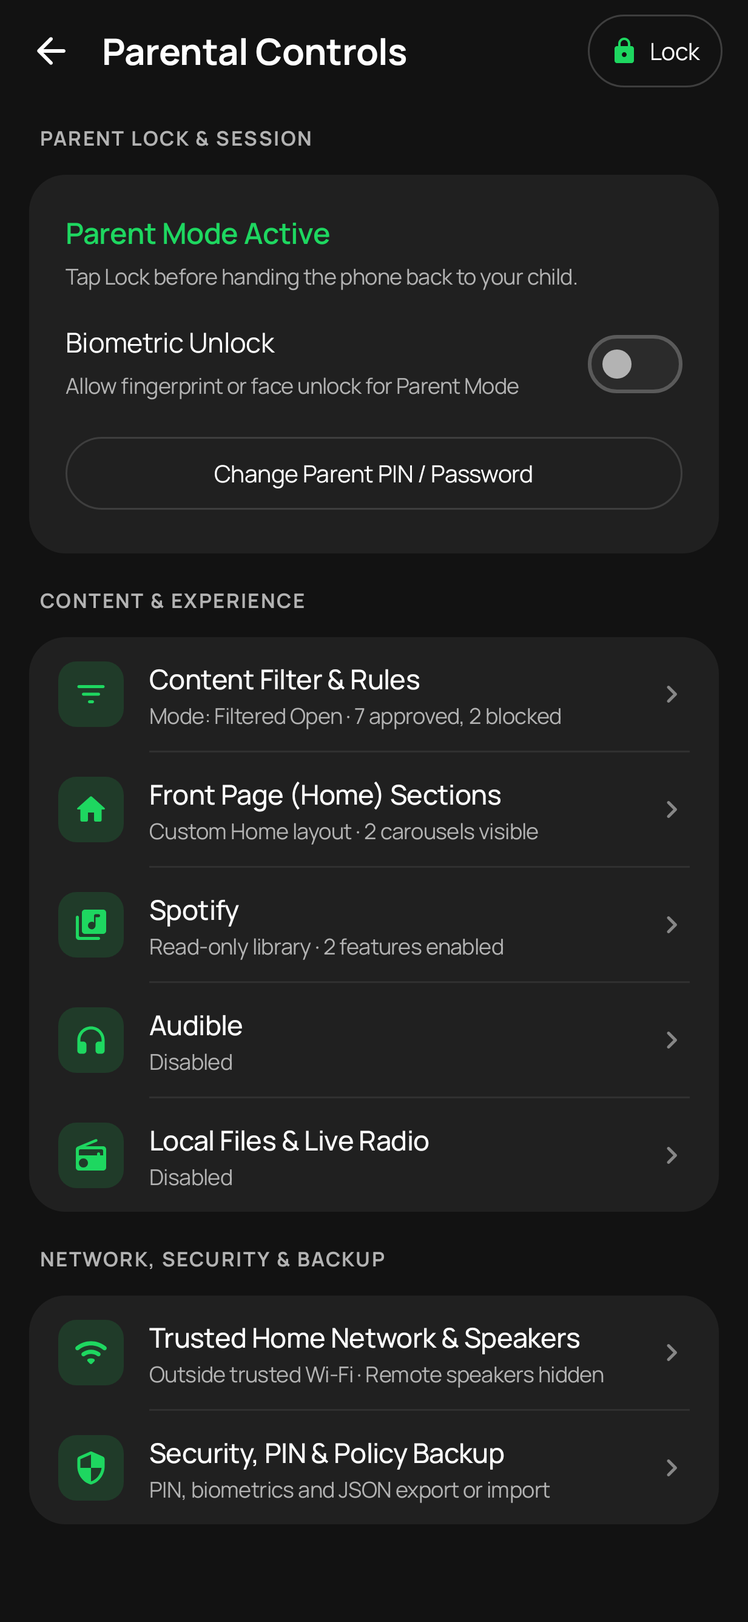
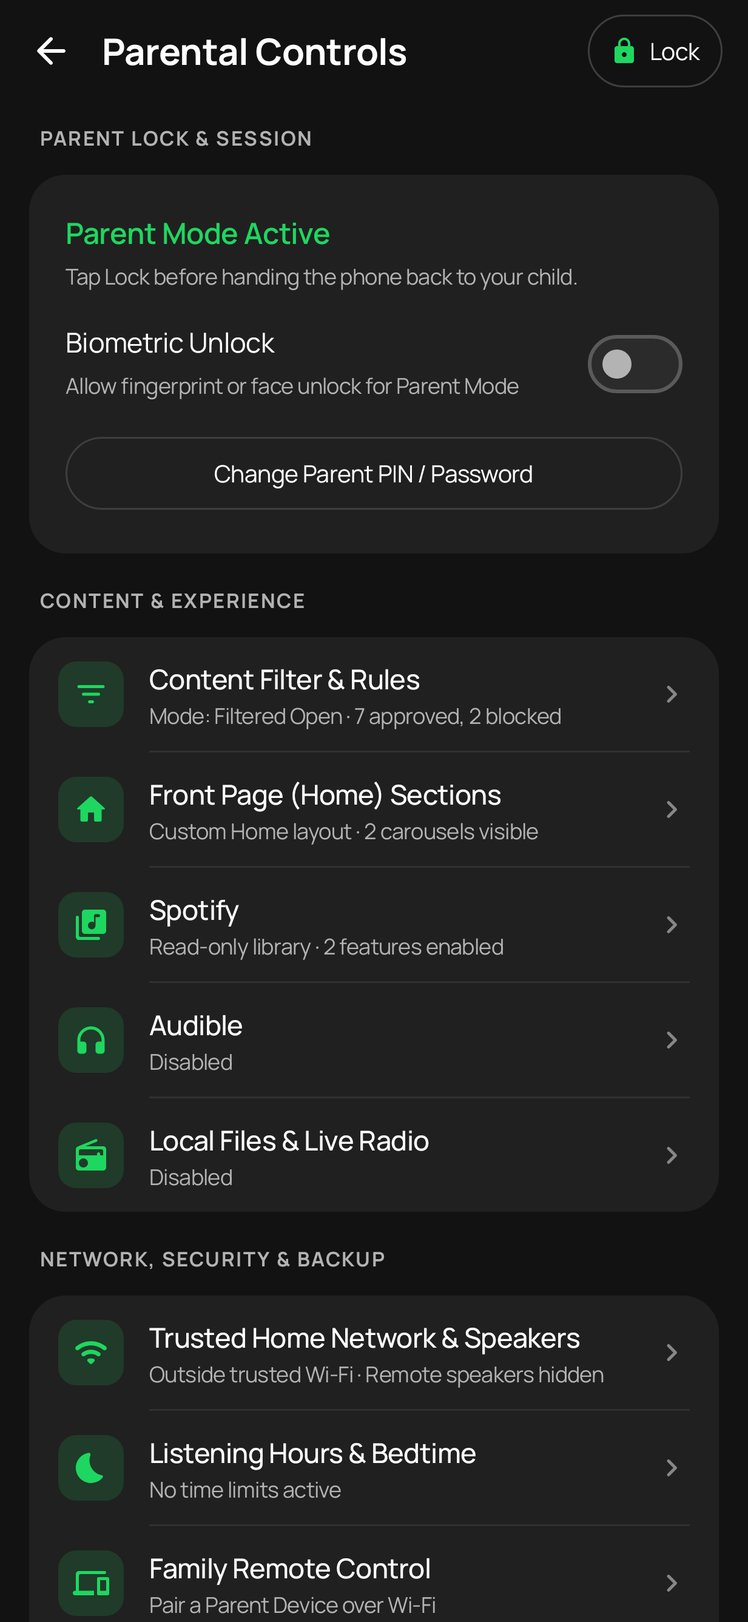
docs: regenerate screenshots and update README for Parent Remote and listening schedules

Changed region(s): [[0.2157, 0.8694, 0.7088, 0.9315], [0.0616, 0.9005, 0.5856, 1.0]]

diff --git a/base/app/src/test/java/io/github/thake/soundnest/core/ui/DocScreenshotTest.kt b/base/app/src/test/java/io/github/thake/soundnest/core/ui/DocScreenshotTest.kt
@@ -352,6 +352,11 @@ class DocScreenshotTest {
         io.github.thake.soundnest.feature.spokenword.audible.data.AudibleProgressStore.resetMemoryForTests()
         ParentSecurityManager.dismissPrompt()
         ParentSecurityManager.resetForTests(app)
+        io.github.thake.soundnest.feature.parental.remote.settings.RemotePolicySession.resetForTests(app)
+        io.github.thake.soundnest.feature.parental.remote.net.ChildRemoteServer.resetForTests()
+        io.github.thake.soundnest.feature.parental.remote.settings.PairedDevicesStore.resetForTests(app)
+        io.github.thake.soundnest.feature.parental.remote.settings.DeviceRoleStore.resetForTests(app)
+        io.github.thake.soundnest.feature.parental.schedule.ParentalScheduleController.resetForTests()
         ParentalPolicyStore.resetForTests(app)
         TrustedNetworkGate.resetForTests(app)
         setLibraryGridView(app, false)
@@ -482,6 +487,11 @@ class DocScreenshotTest {
         io.github.thake.soundnest.feature.spokenword.audible.data.AudibleProgressStore.clearAll(app)
         io.github.thake.soundnest.feature.spokenword.audible.data.AudibleProgressStore.resetMemoryForTests()
         ShadowLooper.idleMainLooper()
+        io.github.thake.soundnest.feature.parental.remote.settings.RemotePolicySession.resetForTests(app)
+        io.github.thake.soundnest.feature.parental.remote.net.ChildRemoteServer.resetForTests()
+        io.github.thake.soundnest.feature.parental.remote.settings.PairedDevicesStore.resetForTests(app)
+        io.github.thake.soundnest.feature.parental.remote.settings.DeviceRoleStore.resetForTests(app)
+        io.github.thake.soundnest.feature.parental.schedule.ParentalScheduleController.resetForTests()
         ParentSecurityManager.resetForTests(app)
         ParentSecurityManager.setupInitialPin(app, "246810")
         ParentSecurityManager.lockNow(app)
@@ -644,6 +654,117 @@ class DocScreenshotTest {
             seedFeedAndLibraryCache()
         }
 
+        var remoteLoopbackChild: io.github.thake.soundnest.feature.parental.remote.settings.PairedChildRecord? = null
+        val remoteHubPrep: (Application) -> Unit = { app ->
+            parentAdminPrep(app)
+            io.github.thake.soundnest.feature.parental.remote.settings.DeviceRoleStore.setDeviceName(app, "Emma's Tablet")
+            io.github.thake.soundnest.feature.parental.remote.net.ChildRemoteServer.enableMdns = false
+            val childPolicy = ParentalPolicyStore.current(app)
+            io.github.thake.soundnest.feature.parental.remote.net.ChildRemoteServer.delegate =
+                object : io.github.thake.soundnest.feature.parental.remote.net.ChildControlDelegate {
+                    override fun getStatus(context: android.content.Context) =
+                        io.github.thake.soundnest.feature.parental.remote.net.ChildStatusSnapshot(
+                            childId = io.github.thake.soundnest.feature.parental.remote.settings.DeviceRoleStore.deviceId(context),
+                            deviceName = "Emma's Tablet",
+                            title = "Path of the Wind",
+                            artist = "Joe Hisaishi",
+                            album = "My Neighbor Totoro",
+                            coverUrl = covers["ghibli"].orEmpty(),
+                            isPlaying = true,
+                            volumePercent = 45,
+                            policyRevision = 3L,
+                            filterMode = childPolicy.filterMode,
+                        )
+                    override fun executePlayback(
+                        context: android.content.Context,
+                        action: io.github.thake.soundnest.feature.parental.remote.net.RemoteRequest.PlaybackAction,
+                    ) = getStatus(context)
+                    override fun getPolicy(context: android.content.Context) =
+                        io.github.thake.soundnest.feature.parental.remote.net.RemotePolicyBundle(
+                            childId = io.github.thake.soundnest.feature.parental.remote.settings.DeviceRoleStore.deviceId(context),
+                            deviceName = "Emma's Tablet",
+                            policy = childPolicy,
+                            ruleLabels = RuleLabelStore.all(context),
+                            policyRevision = 3L,
+                        )
+                    override fun updatePolicy(
+                        context: android.content.Context,
+                        policy: ParentalPolicy,
+                        ruleLabels: Map<String, io.github.thake.soundnest.feature.parental.settings.RuleLabel>,
+                    ) = 4L to getStatus(context)
+                    override fun renameDevice(context: android.content.Context, newName: String) = getStatus(context)
+                    override fun searchCatalog(context: android.content.Context, query: String) = listOf(
+                        io.github.thake.soundnest.feature.parental.remote.net.RemoteCatalogItem(
+                            "track", "t_ghibli", "Path of the Wind", "Joe Hisaishi", covers["ghibli"].orEmpty(),
+                        ),
+                        io.github.thake.soundnest.feature.parental.remote.net.RemoteCatalogItem(
+                            "playlist", "ghibli", "Studio Ghibli Piano", "Parent Picks", covers["ghibli"].orEmpty(),
+                        ),
+                    )
+                    override fun getChildCatalog(context: android.content.Context) =
+                        io.github.thake.soundnest.feature.parental.remote.net.RemoteResponse.ChildCatalog(
+                            libraryItems = listOf(
+                                io.github.thake.soundnest.feature.parental.remote.net.RemoteCatalogItem(
+                                    "playlist", "ghibli", "Studio Ghibli Piano", "Parent Picks", covers["ghibli"].orEmpty(),
+                                ),
+                                io.github.thake.soundnest.feature.parental.remote.net.RemoteCatalogItem(
+                                    "album", "planets", "The Planets Suite", "Gustav Holst", covers["planets"].orEmpty(),
+                                ),
+                                io.github.thake.soundnest.feature.parental.remote.net.RemoteCatalogItem(
+                                    "album", "bedtime", "Calm Bedtime Classics", "Lullaby Orchestra", covers["bedtime"].orEmpty(),
+                                ),
+                                io.github.thake.soundnest.feature.parental.remote.net.RemoteCatalogItem(
+                                    "track", "explicit1", "Late Night Explicit Remix", "Club DJ", covers["starwars"].orEmpty(),
+                                ),
+                            ),
+                            audibleBooks = listOf(
+                                io.github.thake.soundnest.feature.parental.remote.net.RemoteCatalogItem(
+                                    "audible", "B08G9PRS1K", "Project Hail Mary", "Andy Weir", covers["planets"].orEmpty(),
+                                ),
+                                io.github.thake.soundnest.feature.parental.remote.net.RemoteCatalogItem(
+                                    "audible", "B004V0725Y", "Momo", "Michael Ende", covers["bedtime"].orEmpty(),
+                                ),
+                            ),
+                            audibleConnected = true,
+                        )
+                }
+            val session = io.github.thake.soundnest.feature.parental.remote.net.ChildRemoteServer
+                .startPairingSession(app, java.net.InetAddress.getLoopbackAddress()).getOrThrow()
+            val paired = kotlinx.coroutines.runBlocking {
+                io.github.thake.soundnest.feature.parental.remote.net.ParentRemoteClient
+                    .pairWithChild(app, "127.0.0.1", session.port, session.code).getOrThrow()
+            }
+            remoteLoopbackChild = paired
+            io.github.thake.soundnest.feature.parental.remote.settings.PairedDevicesStore.upsertPairedChild(
+                context = app,
+                childId = "child-leo-offline",
+                displayName = "Leo's Phone",
+                host = "127.0.0.1",
+                port = 1,
+                rawSecret = io.github.thake.soundnest.feature.parental.remote.crypto.RemoteCrypto.randomBytes(32),
+            )
+            io.github.thake.soundnest.feature.parental.remote.settings.DeviceRoleStore.setRole(
+                app,
+                io.github.thake.soundnest.feature.parental.remote.settings.DeviceRole.PARENT_CONTROLLER,
+            )
+        }
+        val schedulePrep: (Application) -> Unit = { app ->
+            parentAdminPrep(app)
+            ParentalPolicyStore.update(app) {
+                it.copy(
+                    schedule = io.github.thake.soundnest.feature.parental.schedule.ScheduleParentalPolicy(
+                        usageHoursEnabled = true,
+                        weekdayWindow = io.github.thake.soundnest.feature.parental.schedule.DailyTimeWindow(7 * 60, 20 * 60),
+                        weekendWindow = io.github.thake.soundnest.feature.parental.schedule.DailyTimeWindow(8 * 60, 21 * 60),
+                        bedtimeInactivityEnabled = true,
+                        bedtimeStartMinutes = 19 * 60 + 30,
+                        bedtimeEndMinutes = 6 * 60,
+                        inactivityTimeoutMinutes = 20,
+                    ),
+                )
+            }
+        }
+
         // ── 1. Hero Screenshots (README.md top-level files) ──
         add("Hero Overview", "immersive-home.png", "Immersive Home (Filtered Open)", "Curated shelves, Parent Picks, and floating glass mini-player.", Look.IMMERSIVE, filteredOpenPrep) {
             ImmersiveShell(Routes.Home.route, capped = false) { nav -> ImmersiveHomeScreen(nav) }
@@ -666,6 +787,25 @@ class DocScreenshotTest {
             SongPlayer.setSleepTimer(30)
         }) {
             ImmersivePlayer(state = immersivePlayerState(), actions = ImmersivePlayerActions(), navController = rememberNavController())
+        }
+        add("Hero Overview", "parent-device-hub.png", "Parent Device Hub (Wi-Fi Remote)", "Dedicated Parent Device mode managing multiple paired children over encrypted LAN with live playback, volume, Sleep Timer, Pick / Block, and Pause All Kids.", Look.CLASSIC, remoteHubPrep) {
+            io.github.thake.soundnest.feature.parental.remote.ui.ParentHubScreen(isDedicatedMode = true, onBack = {}, onSwitchToStandardMode = {})
+        }
+        add("Hero Overview", "remote-catalog-browser.png", "Remote Pick / Block Browser", "Browse and search a child's Spotify catalog, library, and Audible books from the Parent Device with 1-tap Pick / Block syncing live.", Look.CLASSIC, prepare = { app ->
+            remoteHubPrep(app)
+            val target = requireNotNull(remoteLoopbackChild)
+            kotlinx.coroutines.runBlocking {
+                io.github.thake.soundnest.feature.parental.remote.settings.RemotePolicySession.attach(app, target)
+            }
+        }) {
+            io.github.thake.soundnest.feature.parental.remote.ui.RemoteCatalogBrowserScreen(
+                child = requireNotNull(remoteLoopbackChild),
+                onBack = {},
+                initialTab = 1,
+            )
+        }
+        add("Hero Overview", "listening-hours-schedule.png", "Listening Hours & Bedtime Sleep", "Weekday/weekend allowed listening windows and automatic bedtime inactivity fade-out sleep timer.", Look.CLASSIC, schedulePrep) {
+            ParentSettingsScreen(navController = rememberNavController(), initialPage = ParentSettingsPage.ScheduleAndSleep)
         }
 
         // ── 2. Onboarding & Session States ──
@@ -845,6 +985,57 @@ class DocScreenshotTest {
                     onDismiss = {},
                 )
             }
+        }
+        add("Parental Controls & Security", "parental/18-dashboard-schedule.png", "Dashboard: Listening Hours & Bedtime Sleep", "Weekday/weekend listening hour windows and automatic bedtime inactivity fade-out sleep timer.", Look.CLASSIC, schedulePrep) {
+            ParentSettingsScreen(navController = rememberNavController(), initialPage = ParentSettingsPage.ScheduleAndSleep)
+        }
+        add("Parental Controls & Security", "parental/19-usage-hours-lock.png", "Allowed Listening Hours Lock Overlay", "Calm full-screen lock shown outside allowed listening hours with next allowed start time and Parent Unlock / Extension action.", Look.CLASSIC, prepare = { app ->
+            ParentalPolicyStore.update(app) {
+                it.copy(
+                    schedule = io.github.thake.soundnest.feature.parental.schedule.ScheduleParentalPolicy(
+                        usageHoursEnabled = true,
+                        weekdayWindow = io.github.thake.soundnest.feature.parental.schedule.DailyTimeWindow(7 * 60, 20 * 60),
+                        weekendWindow = io.github.thake.soundnest.feature.parental.schedule.DailyTimeWindow(8 * 60, 21 * 60),
+                    ),
+                )
+            }
+            io.github.thake.soundnest.feature.parental.schedule.ParentalScheduleController.nowZonedProvider = {
+                java.time.ZonedDateTime.of(2026, 11, 20, 20, 30, 0, 0, java.time.ZoneId.of("UTC"))
+            }
+            io.github.thake.soundnest.feature.parental.schedule.ParentalScheduleController.evaluateNow(app)
+        }) {
+            io.github.thake.soundnest.feature.parental.schedule.ui.UsageHoursLockOverlay()
+        }
+        add("Parental Controls & Security", "parental/20-family-remote-pairing.png", "Family Remote Control & Pairing", "Child device pairing screen with paired parents list, QR code, and 6-digit one-time pairing code.", Look.CLASSIC, prepare = { app ->
+            parentAdminPrep(app)
+            io.github.thake.soundnest.feature.parental.remote.settings.DeviceRoleStore.setDeviceName(app, "Emma's Tablet")
+            io.github.thake.soundnest.feature.parental.remote.net.ChildRemoteServer.enableMdns = false
+            io.github.thake.soundnest.feature.parental.remote.settings.PairedDevicesStore.upsertPairedParent(
+                context = app,
+                parentId = "parent-mom",
+                parentName = "Mom's Phone",
+                rawSecret = io.github.thake.soundnest.feature.parental.remote.crypto.RemoteCrypto.randomBytes(32),
+            )
+            io.github.thake.soundnest.feature.parental.remote.net.ChildRemoteServer
+                .startPairingSession(app, java.net.InetAddress.getLoopbackAddress())
+        }) {
+            ParentSettingsScreen(navController = rememberNavController(), initialPage = ParentSettingsPage.FamilyRemote)
+        }
+        add("Parental Controls & Security", "parental/21-parent-device-hub.png", "Parent Device Mode: Multi-Child Hub", "Dedicated Parent Device hub controlling multiple paired children over encrypted home Wi-Fi.", Look.CLASSIC, remoteHubPrep) {
+            io.github.thake.soundnest.feature.parental.remote.ui.ParentHubScreen(isDedicatedMode = true, onBack = {}, onSwitchToStandardMode = {})
+        }
+        add("Parental Controls & Security", "parental/22-remote-catalog-browser.png", "Parent Device Mode: Remote Pick / Block", "Remote Spotify Search, Child Library, and Audible catalog browser with instant Pick / Block syncing.", Look.CLASSIC, prepare = { app ->
+            remoteHubPrep(app)
+            val target = requireNotNull(remoteLoopbackChild)
+            kotlinx.coroutines.runBlocking {
+                io.github.thake.soundnest.feature.parental.remote.settings.RemotePolicySession.attach(app, target)
+            }
+        }) {
+            io.github.thake.soundnest.feature.parental.remote.ui.RemoteCatalogBrowserScreen(
+                child = requireNotNull(remoteLoopbackChild),
+                onBack = {},
+                initialTab = 1,
+            )
         }
 
         // ── 4. Classic Look — Complete Screen & Settings Catalog ──

diff --git a/base/app/src/main/java/io/github/thake/soundnest/feature/parental/remote/ui/RemoteCatalogBrowserScreen.kt b/base/app/src/main/java/io/github/thake/soundnest/feature/parental/remote/ui/RemoteCatalogBrowserScreen.kt
@@ -81,12 +81,13 @@ import kotlinx.coroutines.delay
 fun RemoteCatalogBrowserScreen(
     child: PairedChildRecord,
     onBack: () -> Unit,
+    initialTab: Int = 0,
 ) {
     val context = LocalContext.current
     val policy by ParentalPolicyStore.policyFlow.collectAsState()
     val syncState by RemotePolicySession.syncStateFlow.collectAsState()
 
-    var selectedTab by remember { mutableIntStateOf(0) } // 0 = Search, 1 = Library, 2 = Audible
+    var selectedTab by remember { mutableIntStateOf(initialTab) } // 0 = Search, 1 = Library, 2 = Audible
     var query by remember { mutableStateOf("") }
     var searching by remember { mutableStateOf(false) }
     var searchResults by remember { mutableStateOf<List<RemoteCatalogItem>>(emptyList()) }

diff --git a/README.md b/README.md
@@ -7,6 +7,7 @@
     <img src="https://img.shields.io/badge/Android-10%2B%20(API%2029%2B)-38BDF8?style=flat-square" alt="Android 10+" />
     <img src="https://img.shields.io/badge/Spotify-Free%20%26%20Premium-1DB954?style=flat-square" alt="Spotify Free & Premium" />
     <img src="https://img.shields.io/badge/Audible-Parent--Curated%20Audiobooks-F59E0B?style=flat-square" alt="Audible Parent-Curated Audiobooks" />
+    <img src="https://img.shields.io/badge/Parent%20Remote-Multi--Child%20Wi--Fi-8B5CF6?style=flat-square" alt="Parent Remote Multi-Child Wi-Fi" />
   </p>
 </div>
 
@@ -19,7 +20,7 @@ SoundNest is a focused **GPL-3.0** derivative of [Orpheon (formerly Myspoti)](ht
 - **Zero ad-blocking or DRM circumvention** — no ad-muting, no WebView script injection to suppress ads, no SponsorBlock, no audio downloading/ripping (Audible streams in memory via standard Android `MediaDrm` Widevine with zero `.aax`/`.aaxc` decryption), and no Spotify attestation workarounds.
 - **Zero third-party extensions or scrapers** — no extension runtime, no YouTube Music / external catalog scrapers, and no in-app self-updater bypassing device parental controls.
 - **Zero unmoderated social or store surfaces** — Spotify Friend Activity, unmoderated user profiles, Music Videos, Canvas video loops, artist merch/concert prompts, and Audible Store / Plus catalog browsing are completely absent.
-- **Fail-closed parental guardrails** — mandatory Parent PIN or password (4+ characters) on first launch, hybrid Blocklist / Strict Allowlist filtering, explicit per-book Audible Parent Picker, customizable Home shelves, Trusted Home Wi-Fi speaker boundaries, and a built-in Sleep Timer.
+- **Fail-closed parental guardrails** — mandatory Parent PIN or password (4+ characters) on first launch, hybrid Blocklist / Strict Allowlist filtering (with whole-word keywords & case-insensitive regex patterns), explicit per-book Audible Parent Picker, customizable Home shelves, Trusted Home Wi-Fi speaker boundaries, **Allowed Listening Hours**, an automatic **Bedtime Inactivity Sleep Timer**, and a dedicated **Parent Device Wi-Fi Remote** for managing multiple children's devices from your own phone.
 
 ---
 
@@ -33,7 +34,11 @@ SoundNest is a focused **GPL-3.0** derivative of [Orpheon (formerly Myspoti)](ht
 | :---: | :---: | :---: |
 | <img src="docs/screenshots/parent-dashboard.png" alt="Parental Controls Dashboard" width="250" /> | <img src="docs/screenshots/kid-settings.png" alt="Kid-Accessible Settings" width="250" /> | <img src="docs/screenshots/immersive-player.png" alt="Immersive Player" width="250" /> |
 
-> All screenshots above are generated deterministically during automated testing via `./gradlew :app:generateDocScreenshots`.
+| Parent Device Hub (Wi-Fi Remote) | Remote Pick / Block Browser | Listening Hours & Bedtime Sleep |
+| :---: | :---: | :---: |
+| <img src="docs/screenshots/parent-device-hub.png" alt="Parent Device Hub" width="250" /> | <img src="docs/screenshots/remote-catalog-browser.png" alt="Remote Pick / Block Browser" width="250" /> | <img src="docs/screenshots/listening-hours-schedule.png" alt="Listening Hours and Bedtime Sleep" width="250" /> |
+
+> All screenshots above — plus the complete [screenshot catalog](docs/screenshots/README.md) — are generated deterministically during automated testing via `./gradlew :app:generateDocScreenshots`.
 
 ---
 
@@ -45,7 +50,7 @@ SoundNest supports **both** Spotify Free and Spotify Premium accounts without re
 | :--- | :--- | :--- |
 | **Account Sign-In** | Supported | Supported |
 | **Advertisements** | Plays Spotify's standard audio ads unmodified via Spotify's official Web Player | Ad-free |
-| **Playback Engine** | Official Web Player (`WebPlayerHost`) | Native Media3 Engine (`NativeAudio`, 10-band Equalizer, AutoMix beat-matched transitions) or Web Player |
+| **Playback Engine** | Official Web Player (`WebPlayerHost`) with automatic playback self-healing | Native Media3 Engine (`NativeAudio`, 10-band Equalizer, AutoMix beat-matched transitions) or self-healing Web Player |
 | **Parental Content Filtering** | Full UI filtering + live playback guardrail (automatically skips or pauses if server-shuffle picks an explicit/disallowed song, while letting Spotify ads finish normally) | Full UI filtering + on-demand queue filtering + live playback guardrail |
 | **Sleep Timer** | Supported (gradual fade-out & pause) | Supported (local & remote Connect speakers) |
 | **Local Speakers (Chromecast)** | Supported on Home LAN | Supported on Home LAN |
@@ -104,8 +109,21 @@ Every non-music or external-content surface defaults to **off** until enabled by
 - **Custom Speaker Names & Visibility**: Rename speakers (e.g., *"Emma's Bedroom Echo"*) and choose between *Allow All Except Hidden* or *Only Allowed Speakers*.
 - **Sleep Timer**: Available directly to kids from the player controls without needing the Parent PIN — fades volume down gently and pauses both local playback and active remote speakers.
 
-### 7. Copying Rules to Sibling Devices (`soundnest-policy.json`)
-In **Parental Controls Dashboard -> Backup & Sibling Sync**, tap **Export Policy JSON** to save your allowlists (including approved and Home-pinned Audible ASINs), blocklists, keywords, Home section settings, feature gates, and speaker labels to `soundnest-policy.json`, then tap **Import Policy JSON** on another child's device. (Parent PINs and account credentials are never exported in backup files.)
+### 7. Parent Device Mode & Multi-Child Wi-Fi Remote Control
+Install SoundNest on your own phone and choose **Parent Device** on the welcome screen — no Spotify account sign-in required on the parent device:
+- **Zero-Cloud Encrypted Pairing**: Pair any number of children's devices over your home Wi-Fi using a QR code or 6-digit one-time pairing code (authenticated and encrypted end-to-end with **AES-256-GCM** + mDNS discovery).
+- **Live Multi-Child Hub**: See what each child is currently playing, adjust volume, skip/pause tracks, start a remote Sleep Timer, or tap **Pause All Kids** at once.
+- **Unified Parental Controls UI**: Tap **Manage Rules** on any online child card to open the exact same full Parental Controls screens as on the child's device — filter modes, Home shelves, Spotify/Audible gates, listening hours, and speakers — with every change syncing live over Wi-Fi.
+- **Remote Pick / Block Catalog Browser**: Tap **Pick / Block** to search Spotify and browse your child's Library and Audible catalog directly through the child's device (keeping all Spotify/Audible credentials exclusively on the child device), picking or blocking songs, albums, artists, playlists, and audiobooks with one tap.
+- **Push to Other Children**: Apply one child's rules to selected sibling devices over Wi-Fi in a single tap.
+
+### 8. Allowed Listening Hours & Bedtime Inactivity Sleep Timer
+Under **Listening Hours & Bedtime** in the Parental Controls Dashboard:
+- **Allowed Listening Hours**: Set separate **Weekday** and **Weekend** listening windows (e.g., 07:00–20:00 Mon–Fri, 08:00–21:00 Sat–Sun). Outside allowed hours, playback pauses automatically and a calm lock overlay displays the next allowed start time. Parents can unlock with their PIN or grant a temporary **+30 min / +60 min** extension.
+- **Bedtime Inactivity Sleep Timer**: Automatically monitors playback after a configured evening hour (e.g., 19:30–06:00) and smoothly fades out and pauses playback if there has been no touch/app activity for your chosen timeout (e.g., 20 minutes) — ideal for falling asleep to audiobooks or bedtime playlists.
+
+### 9. Copying Rules to Sibling Devices (`soundnest-policy.json`)
+In addition to live Wi-Fi **Push to Other Children**, you can open **Parental Controls Dashboard -> Security, PIN & Backup** and tap **Export Policy JSON** to save your allowlists (including approved and Home-pinned Audible ASINs), blocklists, keywords/regexes, listening schedules, Home section settings, feature gates, and speaker labels to `soundnest-policy.json`, then tap **Import Policy JSON** on another child's device. (Parent PINs and account credentials are never exported in backup files.)
 
 ---
 

diff --git a/docs/screenshots/README.md b/docs/screenshots/README.md
@@ -2,12 +2,12 @@
 
 Auto-generated deterministically by `./gradlew :app:generateDocScreenshots` ([`DocScreenshotTest.kt`](../../base/app/src/test/java/io/github/thake/soundnest/ui/DocScreenshotTest.kt)).
 
-Total captured screens, panels, dialogs & sheets: **142**.
+Total captured screens, panels, dialogs & sheets: **150**.
 
 ## Contents
-- [Hero Overview (6)](#hero-overview)
+- [Hero Overview (9)](#hero-overview)
 - [Onboarding & Session (9)](#onboarding-session)
-- [Parental Controls & Security (18)](#parental-controls-security)
+- [Parental Controls & Security (23)](#parental-controls-security)
 - [Classic Look (44)](#classic-look)
 - [Immersive Look (50)](#immersive-look)
 - [Sheets & Modals (15)](#sheets-modals)
@@ -22,6 +22,9 @@ Total captured screens, panels, dialogs & sheets: **142**.
 | **Parental Controls Dashboard** (`CLASSIC`) | <img src="parent-dashboard.png" width="180" alt="Parental Controls Dashboard" /> | [`parent-dashboard.png`](parent-dashboard.png)<br/>PIN-locked configuration for filter modes, allowlists, and feature gates. |
 | **Kid-Accessible Settings** (`CLASSIC`) | <img src="kid-settings.png" width="180" alt="Kid-Accessible Settings" /> | [`kid-settings.png`](kid-settings.png)<br/>Material 3 Settings hub with audio, display, library, system, and PIN-protected Parental Controls. |
 | **Immersive Full-Screen Player** (`IMMERSIVE`) | <img src="immersive-player.png" width="180" alt="Immersive Full-Screen Player" /> | [`immersive-player.png`](immersive-player.png)<br/>Full-screen artwork mesh backdrop, scrubber, sleep timer, and transport controls. |
+| **Parent Device Hub (Wi-Fi Remote)** (`CLASSIC`) | <img src="parent-device-hub.png" width="180" alt="Parent Device Hub (Wi-Fi Remote)" /> | [`parent-device-hub.png`](parent-device-hub.png)<br/>Dedicated Parent Device mode managing multiple paired children over encrypted LAN with live playback, volume, Sleep Timer, Pick / Block, and Pause All Kids. |
+| **Remote Pick / Block Browser** (`CLASSIC`) | <img src="remote-catalog-browser.png" width="180" alt="Remote Pick / Block Browser" /> | [`remote-catalog-browser.png`](remote-catalog-browser.png)<br/>Browse and search a child's Spotify catalog, library, and Audible books from the Parent Device with 1-tap Pick / Block syncing live. |
+| **Listening Hours & Bedtime Sleep** (`CLASSIC`) | <img src="listening-hours-schedule.png" width="180" alt="Listening Hours & Bedtime Sleep" /> | [`listening-hours-schedule.png`](listening-hours-schedule.png)<br/>Weekday/weekend allowed listening windows and automatic bedtime inactivity fade-out sleep timer. |
 
 ## Onboarding & Session
 
@@ -59,6 +62,11 @@ Total captured screens, panels, dialogs & sheets: **142**.
 | **In-App Blocking: Playlist Header Pill** (`IMMERSIVE`) | <img src="parental/15-playlist-inline-block-pill.png" width="180" alt="In-App Blocking: Playlist Header Pill" /> | [`parental/15-playlist-inline-block-pill.png`](parental/15-playlist-inline-block-pill.png)<br/>1-tap Block Playlist pill and floating Parent Mode banner directly on a regular playlist detail page (zero Spotify URIs needed). |
 | **In-App Blocking: Song Options Menu** (`IMMERSIVE`) | <img src="parental/16-song-options-parent-block.png" width="180" alt="In-App Blocking: Song Options Menu" /> | [`parental/16-song-options-parent-block.png`](parental/16-song-options-parent-block.png)<br/>Song context menu while Parent Mode is unlocked, exposing 1-tap Block Song, Block Artist, and Block Album actions. |
 | **In-App Blocking: Home Card Quick-Block Sheet** (`IMMERSIVE`) | <img src="parental/17-quick-block-sheet.png" width="180" alt="In-App Blocking: Home Card Quick-Block Sheet" /> | [`parental/17-quick-block-sheet.png`](parental/17-quick-block-sheet.png)<br/>Home card overflow buttons and 1-tap ParentQuickBlockSheet while Parent Mode is unlocked. |
+| **Dashboard: Listening Hours & Bedtime Sleep** (`CLASSIC`) | <img src="parental/18-dashboard-schedule.png" width="180" alt="Dashboard: Listening Hours & Bedtime Sleep" /> | [`parental/18-dashboard-schedule.png`](parental/18-dashboard-schedule.png)<br/>Weekday/weekend listening hour windows and automatic bedtime inactivity fade-out sleep timer. |
+| **Allowed Listening Hours Lock Overlay** (`CLASSIC`) | <img src="parental/19-usage-hours-lock.png" width="180" alt="Allowed Listening Hours Lock Overlay" /> | [`parental/19-usage-hours-lock.png`](parental/19-usage-hours-lock.png)<br/>Calm full-screen lock shown outside allowed listening hours with next allowed start time and Parent Unlock / Extension action. |
+| **Family Remote Control & Pairing** (`CLASSIC`) | <img src="parental/20-family-remote-pairing.png" width="180" alt="Family Remote Control & Pairing" /> | [`parental/20-family-remote-pairing.png`](parental/20-family-remote-pairing.png)<br/>Child device pairing screen with paired parents list, QR code, and 6-digit one-time pairing code. |
+| **Parent Device Mode: Multi-Child Hub** (`CLASSIC`) | <img src="parental/21-parent-device-hub.png" width="180" alt="Parent Device Mode: Multi-Child Hub" /> | [`parental/21-parent-device-hub.png`](parental/21-parent-device-hub.png)<br/>Dedicated Parent Device hub controlling multiple paired children over encrypted home Wi-Fi. |
+| **Parent Device Mode: Remote Pick / Block** (`CLASSIC`) | <img src="parental/22-remote-catalog-browser.png" width="180" alt="Parent Device Mode: Remote Pick / Block" /> | [`parental/22-remote-catalog-browser.png`](parental/22-remote-catalog-browser.png)<br/>Remote Spotify Search, Child Library, and Audible catalog browser with instant Pick / Block syncing. |
 
 ## Classic Look
 
